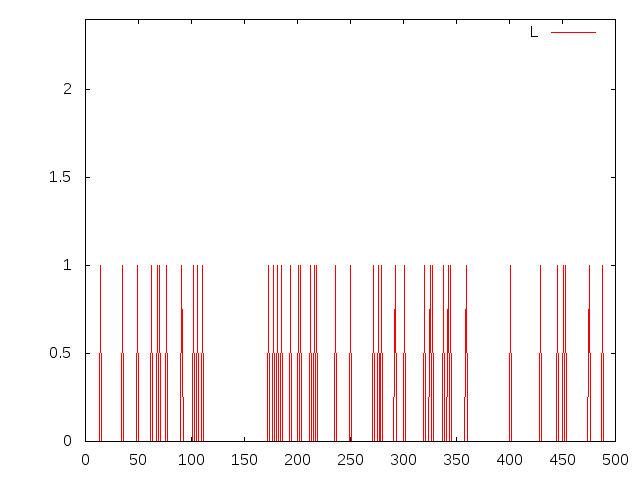
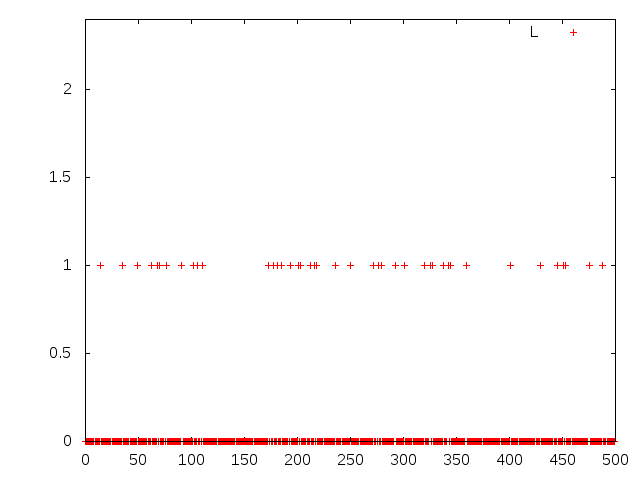
all

Changed region(s): [[0.125, 0.5625, 0.9688, 0.9375]]

diff --git a/c/pole/0.5.5-plot/gnuplot.c b/c/pole/0.5.5-plot/gnuplot.c
@@ -18,9 +18,10 @@ char output[30];
 // sample_loc: first -1, last 0, all 1
 void plot(int sample_loc, int col) {
 	char *colstr;
+	char *type = "lines";
 	switch(col) {
-		case 1: colstr = "L"; break;
-		case 2: colstr = "R"; break;
+		case 1: colstr = "L"; type = ""; break;
+		case 2: colstr = "R"; type = ""; break;
 		case 5: colstr = "theta"; break;
 		case 6: colstr = "thetadot"; break;
 		default: break;
@@ -39,13 +40,15 @@ void plot(int sample_loc, int col) {
         	fprintf(gp, "set yr [0:2.4]\n");
 	
 	if(sample_loc == -1)
-        	fprintf(gp, "plot \"<(sed -n '1,%dp' %s)\" using %d title '%s' with lines\n", sample_size, fname, col, colstr);
+        	fprintf(gp, "plot \"<(sed -n '1,%dp' %s)\" using %d title '%s' %s\n", sample_size, fname, col, colstr, type);
 	else if (sample_loc == 0)
-        	fprintf(gp, "plot \"<(sed -n '%d,180000p' %s)\" using %d title '%s' with lines\n", lastlines, fname, col, colstr);
+        	fprintf(gp, "plot \"<(sed -n '%d,180000p' %s)\" using %d title '%s' %s\n", lastlines, fname, col, colstr, type);
 	else
-        	fprintf(gp, "plot \"%s\" every %d using %d title '%s' with lines\n", fname, sample_period, col, colstr);
+        	fprintf(gp, "plot \"%s\" every %d using %d title '%s' %s\n", fname, sample_period, col, colstr, type);
+
 	if(col == 1) plot(sample_loc, 2);
-	printf("%s created\n", output);
+	if(col != 1)
+		printf("%s created\n", output);
 }
 
 int main(int argc, char **argv)
